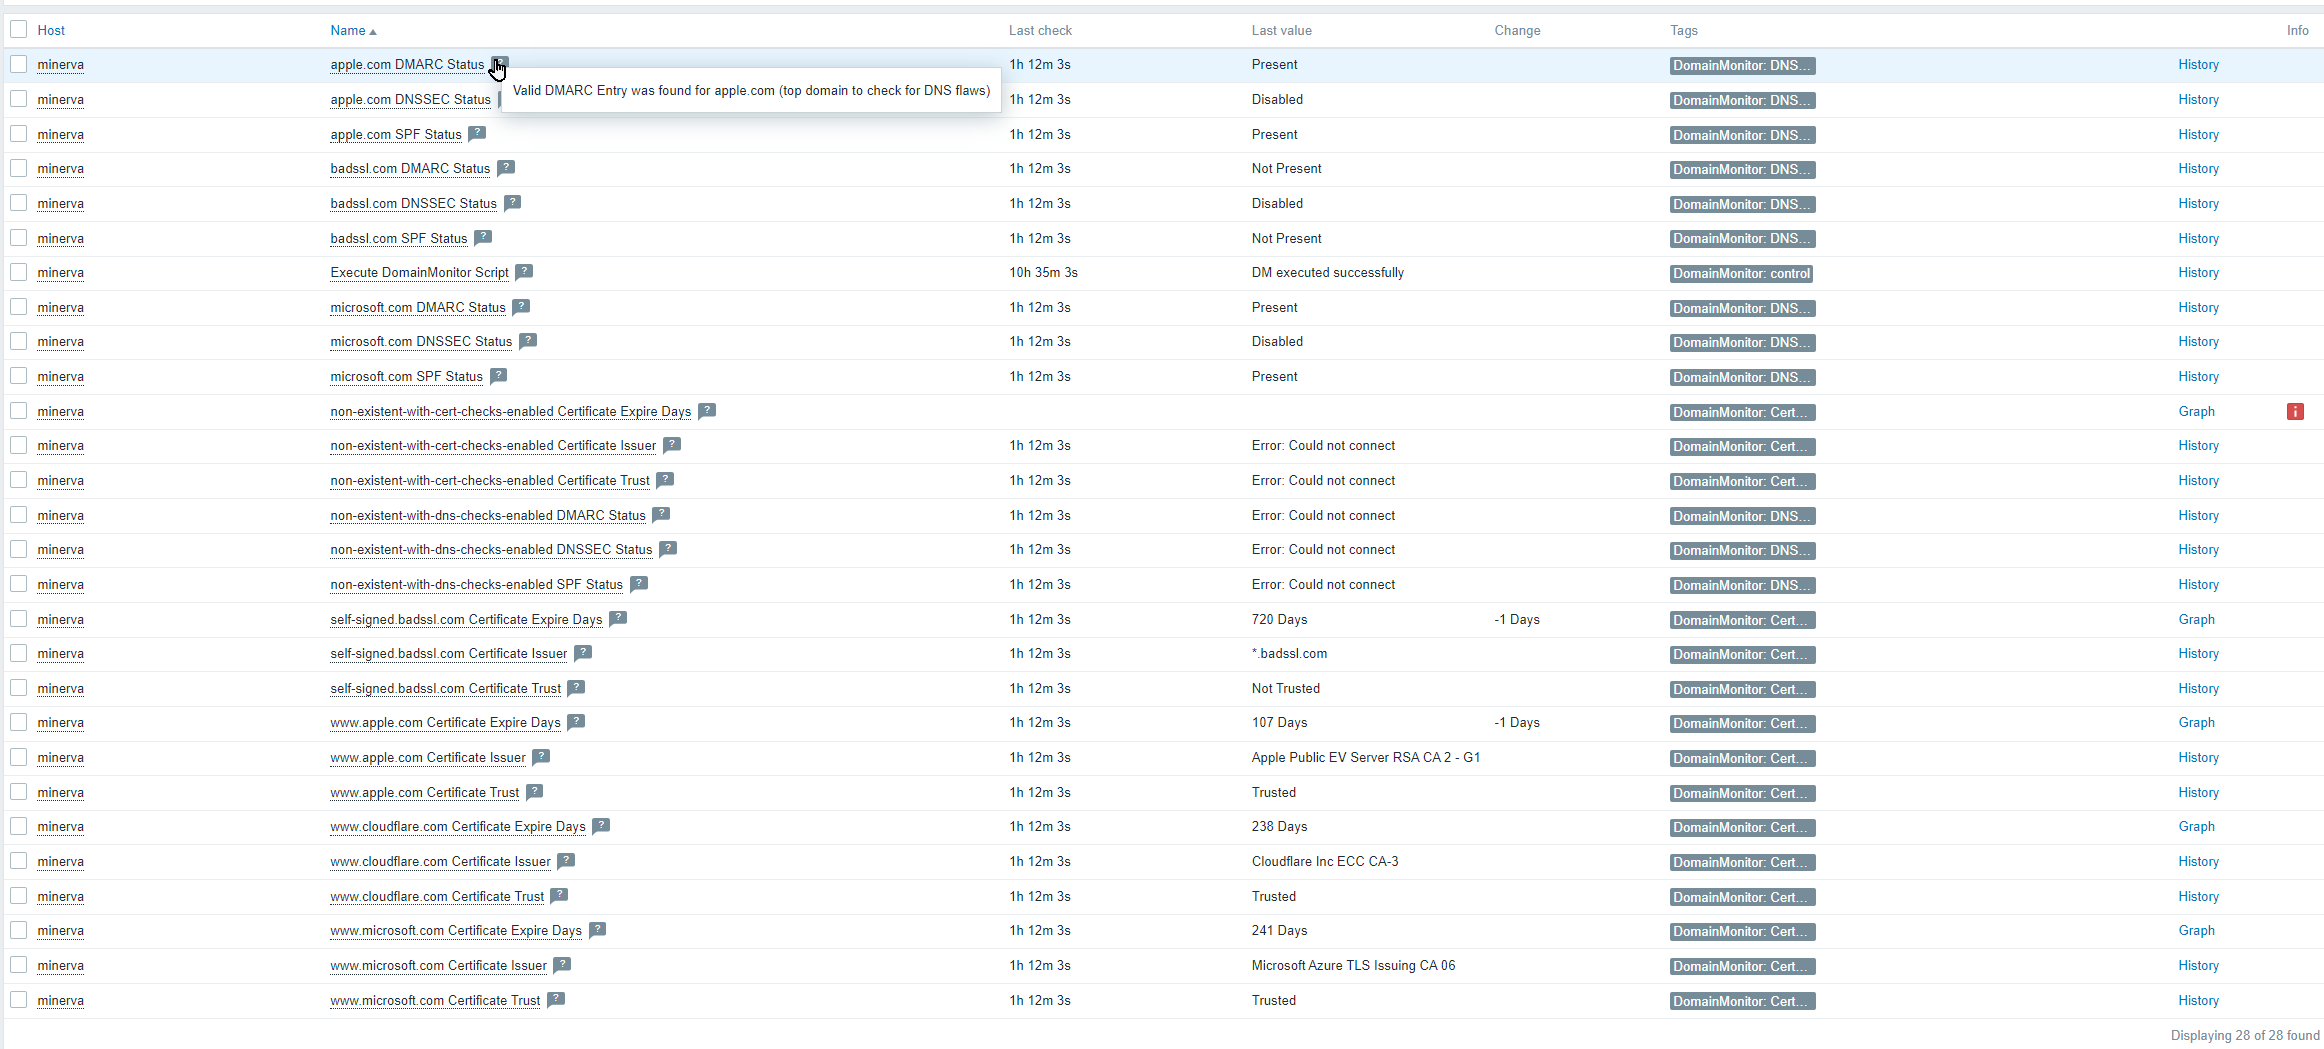
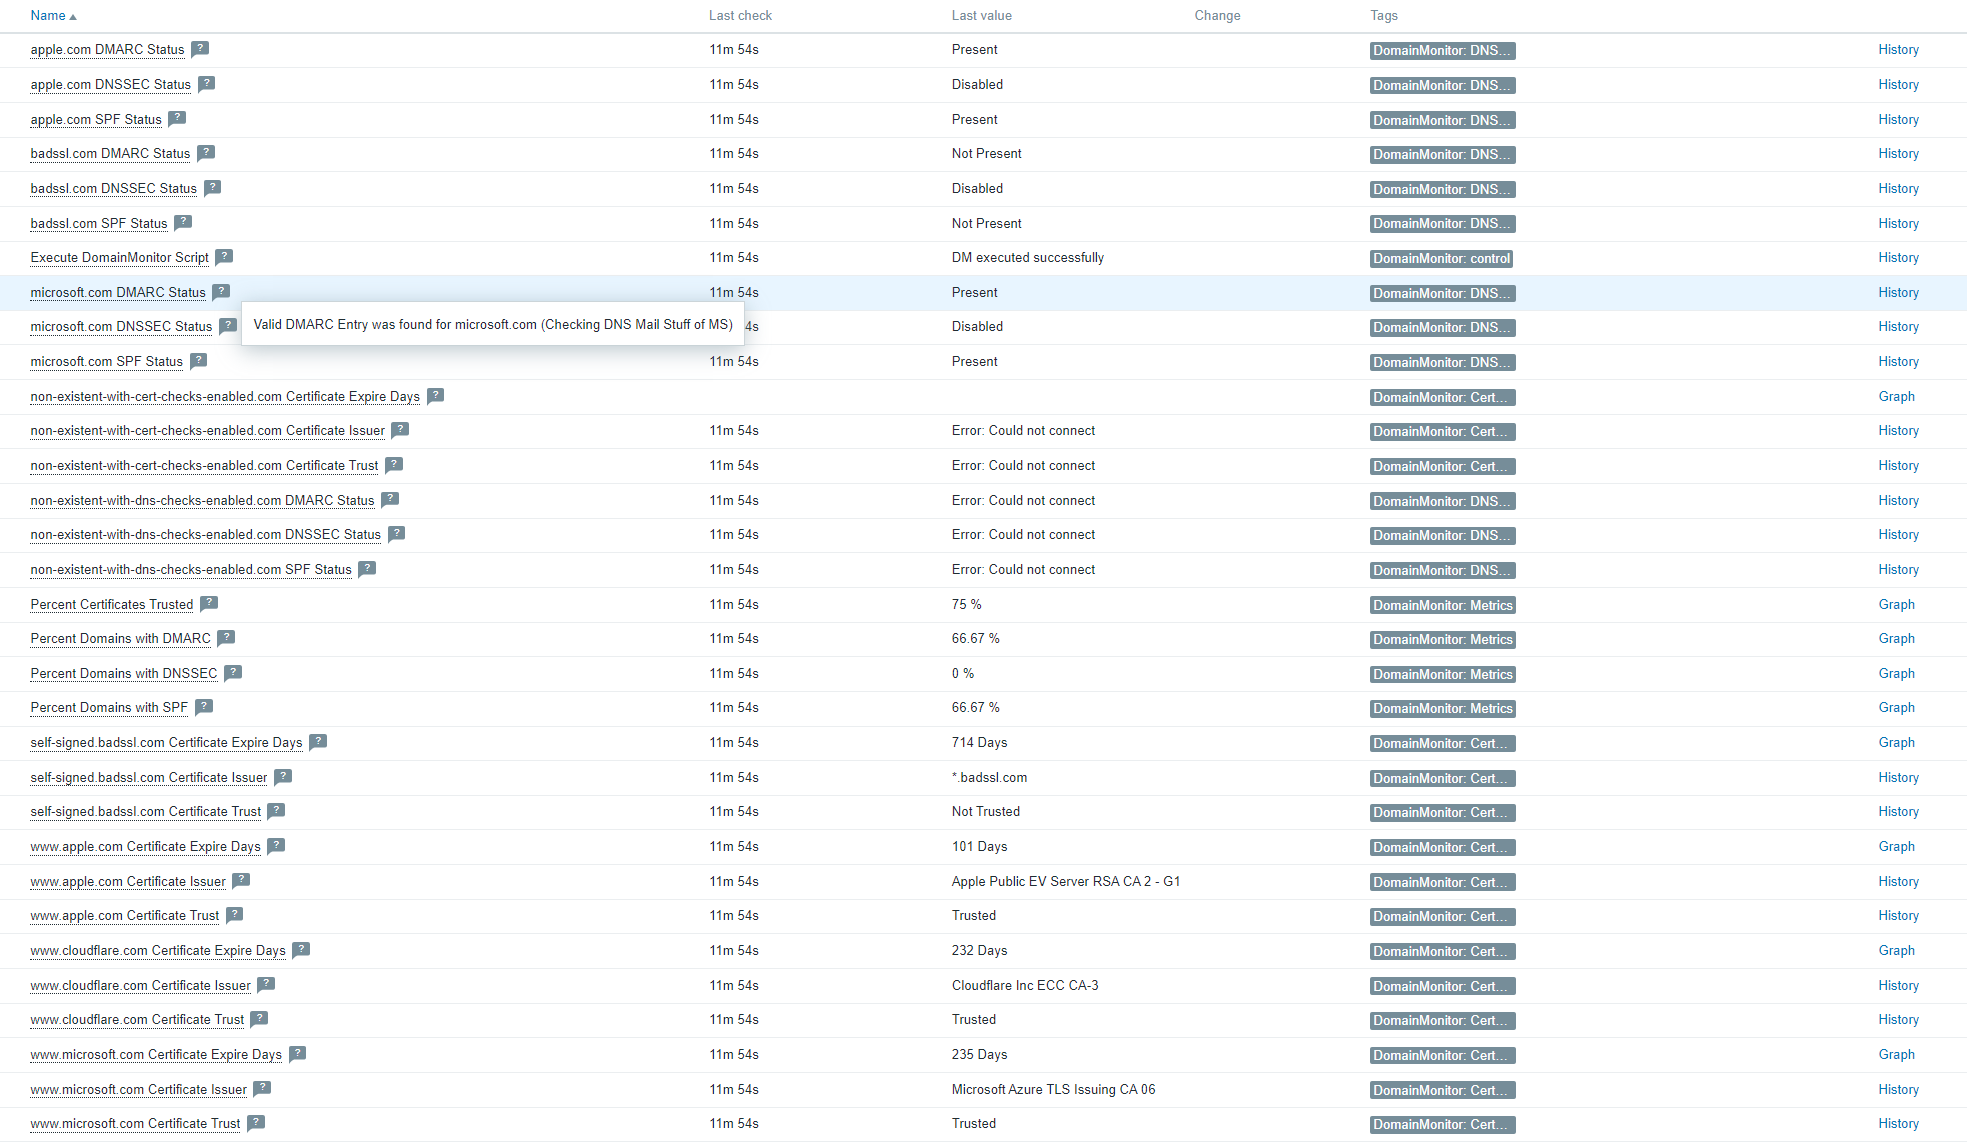
Metrics added

diff --git a/zabbix/template_discover.js b/zabbix/template_discover.js
@@ -1,4 +1,4 @@
-Zabbix.log(4, 'Starting DM discovery for cert checks...');
+Zabbix.log(4, 'Starting Domain Monitor discovery...');
 
 // init return
 var result = {};
@@ -21,7 +21,7 @@ try {
 
 } catch (error) {
     Zabbix.log(4, 'DM error fetching domains: ' + error);
-    result = { "error": error };
+    result = { "Error downloading file": String(error) };
 }
 
 try {
@@ -55,7 +55,8 @@ try {
 
 } catch (error) {
     Zabbix.log(4, 'DM error parsing domains: ' + error);
-    result = { "error": error };
+    Zabbix.log(4, 'File contents downloaded: ' + file_contents);
+    result = { "Error parsing file" : String(error) };
 }
 
 

diff --git a/dm.py b/dm.py
@@ -21,6 +21,53 @@ import sslpsk
 import functools
 import dns.resolver
 
+class DmMetrics:
+    """Collects metrics for domains and provides calc functions
+
+    Returns:
+        _type_: _description_
+    """
+    
+    ## Prepare Metrics
+    # Overall counts
+    domains_cert_checks_enabled = 0
+    domains_dns_checks_enabled = 0
+    
+    # Succeeded check counts
+    domains_cert_trusted = 0
+    domains_dns_spf_present = 0
+    domains_dns_dmarc_present = 0
+    domains_dns_dnssec_enabled = 0
+    
+    def get_metrics(self):
+        """
+        returns dict with metrics
+        """
+        metrics = {}
+        
+        ## CERT
+        # not counted anything /error
+        if self.domains_cert_checks_enabled == 0:
+            metrics['percent_cert_trusted'] = 0
+        else:
+            # calc %
+            metrics['percent_cert_trusted'] = round( (self.domains_cert_trusted / self.domains_cert_checks_enabled * 100),2)
+        
+        ## DNS
+        if self.domains_dns_checks_enabled == 0:
+            metrics['percent_spf_present'] = 0
+            metrics['percent_dmarc_present'] = 0
+            metrics['percent_dnssec_enabled'] = 0
+        else:
+            # calc %
+            metrics['percent_spf_present'] = round( (self.domains_dns_spf_present / self.domains_dns_checks_enabled * 100),2)
+            metrics['percent_dmarc_present'] = round( (self.domains_dns_dmarc_present / self.domains_dns_checks_enabled * 100),2)
+            metrics['percent_dnssec_enabled'] = round( (self.domains_dns_dnssec_enabled / self.domains_dns_checks_enabled * 100),2)
+        
+        return metrics    
+         
+        
+
 
 class PyZabbixPSKSocketWrapper:
     """Implements ssl.wrap_socket with PSK instead of certificates.
@@ -170,11 +217,12 @@ def check_cert_expire_days(domain_name):
     return check_result
 
 
-def check_cert_trusted(domain_name):
+def check_cert_trusted(domain_name, metrics: DmMetrics):
     """Connects to hostname per https. If cert cannot be verified, return false.
 
     Args:
         domain_name (str): domain name to connect and to check
+        metrics (dmMetrics): Metrics Object to update
     """
     check_result = {}
     
@@ -188,26 +236,33 @@ def check_cert_trusted(domain_name):
         if r.ok:
             check_result['cert_trusted'] = True
             l.debug("Cert of %s is trusted", domain_name)
+            metrics.domains_cert_trusted += 1
         if r.status_code == 403:
+            metrics.domains_cert_trusted += 1
             check_result['cert_trusted'] = True
             l.warning("Cert of %s is trusted, but connect was forbidden!", domain_name)
 
     except SSLError as e_ssl:
-        l.warning("Cert of %s is NOT trusted", domain_name)
+        l.warning("Cert of %s is NOT trusted: %s", domain_name, str(e_ssl))
         check_result['cert_trusted'] = False
     except requests.exceptions.ConnectionError as e_connect:
         l.warning("Error: Could not connect to %s: %s",
                   domain_name, str(e_connect))
-        check_result['cert_trusted'] = "Error: Could not connect"    
+        check_result['cert_trusted'] = "Error: Could not connect"
+    except Exception as e_other:
+        l.warning("Error: Could not connect to %s: %s",
+                  domain_name, str(e_other))
+        check_result['cert_trusted'] = "Error: Could not connect"
 
     return check_result
 
 
-def check_spf_present(domain_name):
+def check_spf_present(domain_name, metrics: DmMetrics):
     """Checks if Domain name has valid SPF record
 
     Args:
         domain_name (str): Domain to check for SPF
+        metrics (dmMetrics): Metrics Object to update
     """
     
     check_result = {}
@@ -216,19 +271,21 @@ def check_spf_present(domain_name):
         spf_check_result = checkdmarc.query_spf_record(domain_name)
         l.info("Found SPF record for %s", domain_name)
         check_result['spf_present'] = True
+        metrics.domains_dns_spf_present += 1
     
     except checkdmarc.SPFRecordNotFound as e_spf:
-        l.debug("No SPF record found for %s", domain_name)
+        l.debug("No SPF record found for %s: %s", domain_name, str(e_spf))
         check_result['spf_present'] = False
 
     return check_result
 
 
-def check_dmarc_present(domain_name):
+def check_dmarc_present(domain_name, metrics: DmMetrics):
     """Checks if Domain name has valid DMARC record
 
     Args:
         domain_name (str): Domain to check for DMARC
+        metrics (dmMetrics): Metrics Object to update
     """
     check_result = {}
     if not domain_exists(domain_name):
@@ -238,10 +295,11 @@ def check_dmarc_present(domain_name):
     
     try:
         dmarc_check_result = checkdmarc.query_dmarc_record(domain_name)
-        l.info("Found DMARC record for %s", domain_name)
+        l.info("Found DMARC record for %s: %s", domain_name, str(dmarc_check_result))
         check_result['dmarc_present'] = True
+        metrics.domains_dns_dmarc_present += 1
     except checkdmarc.DMARCRecordNotFound as e_dmarc:
-        l.debug("No DMARC record found for %s", domain_name)
+        l.debug("No DMARC record found for %s: %s", domain_name, str(e_dmarc))
         check_result['dmarc_present'] = False
     except (checkdmarc.DMARCRecordInWrongLocation, checkdmarc.MultipleDMARCRecords, checkdmarc.SPFRecordFoundWhereDMARCRecordShouldBe):
         l.debug("No VALID DMARC record found for %s", domain_name)
@@ -250,11 +308,12 @@ def check_dmarc_present(domain_name):
     return check_result
 
 
-def check_dnssec(domain_name):
+def check_dnssec_enabled(domain_name, metrics: DmMetrics):
     """Checks if Domain name has DNSSEC enabled
 
     Args:
         domain_name (str): Domain to check for DNSSEC
+        metrics (dmMetrics): Metrics Object to update
     """
     check_result = {}
     dnssec_enabled = checkdmarc.test_dnssec(domain_name)
@@ -279,6 +338,7 @@ def send_zabbix(dm_args, domains_with_check_results):
 
     # prepare packet to send
     zabbix_packet = []
+    
     # for all domains
     for entry in domains_with_check_results['domains']:
         # for all check results
@@ -286,11 +346,20 @@ def send_zabbix(dm_args, domains_with_check_results):
         for cr in entry['check_results'].keys():
             keyname = f"dm.{cr}[{domain_name}]"
             val = entry['check_results'][cr]
-            chunk = ZabbixMetric(host=dm_args.zabbix_host,
-                                 key=keyname, value=val)
+            chunk = ZabbixMetric(host=dm_args.zabbix_host, key=keyname, value=val)
             zabbix_packet.append(chunk)
             l.debug("item %s=%s", keyname, val)
 
+    # for all metrics
+    for entry in domains_with_check_results['metrics']:
+        val = domains_with_check_results['metrics'][entry]
+        keyname = f"dm.{entry}"
+        
+        chunk = ZabbixMetric(host=dm_args.zabbix_host, key=keyname, value=val)
+        zabbix_packet.append(chunk)
+        l.debug("item %s=%s", keyname, val)
+    
+    
     # send via trapper, check if psk provided
     if dm_args.psk:
         l.debug("Sending Trapper Items encrpyted using PSK and TLS Identity...")
@@ -375,9 +444,15 @@ def main():
     l.info("-------- Starting Domain Monitor --------")
     l.debug("Parsed arguments: %s", dm_args)
 
+    
+
+
     # read and parse domain file
     domains_with_check_results = get_domain_file(dm_args)
-
+    
+    # Prepare Metrics
+    metrics = DmMetrics()
+    
     ### Main loop executing checks for each domain
     for entry in domains_with_check_results['domains']:
         # prepare results branch
@@ -386,7 +461,7 @@ def main():
         domain_name = entry['domain']
         l.debug("----- Checks for %s starting...", domain_name)
         
-        # Only continue if domain exists / can be queried
+        # Pre-Check: Only continue if domain exists / can be queried
         if not domain_exists(domain_name):
             l.error("Domain %s does not exist. Not executing checks.", domain_name)
             error_str = "Error: Could not connect"
@@ -402,10 +477,12 @@ def main():
             # end loop for this domain
             continue
         
-
         # Execute Cert checks if enabled
         if 'cert_checks' in entry and entry['cert_checks']:
             l.debug("Cert Checks for %s enabled, executing cert checks...", domain_name)
+            
+            # Count domain to checked cert domains
+            metrics.domains_cert_checks_enabled += 1
 
             # check domains for ssl cert validity
             l.debug("Checking validity for domain %s", domain_name)
@@ -413,28 +490,34 @@ def main():
 
             # check domains for cert trust
             l.debug("Checking trust for domain %s", domain_name)
-            entry['check_results'].update(check_cert_trusted(domain_name))
+            entry['check_results'].update(check_cert_trusted(domain_name, metrics))
         else:
             l.debug("Cert Checks for %s not enabled", domain_name)
 
         if 'dns_checks' in entry and entry['dns_checks']:
             l.debug(
                 "DNS Checks for %s enabled, executing DNS checks...", domain_name)
+            
+            # Count domain to checked DNS domains
+            metrics.domains_dns_checks_enabled += 1
 
             # check for SPF presence
             l.debug("Checking SPF for domain %s", domain_name)
-            entry['check_results'].update(check_spf_present(domain_name))
+            entry['check_results'].update(check_spf_present(domain_name, metrics))
 
             # check for DMARC presence
             l.debug("Checking DMARC for domain %s", domain_name)
-            entry['check_results'].update(check_dmarc_present(domain_name))
+            entry['check_results'].update(check_dmarc_present(domain_name, metrics))
 
             # check for DNSSEC
             l.debug("Checking DNSSEC for domain %s", domain_name)
-            entry['check_results'].update(check_dnssec(domain_name))
+            entry['check_results'].update(check_dnssec_enabled(domain_name, metrics))
         else:
             l.debug("DNS Checks for %s not enabled", domain_name)
 
+    # Add calculated metrics to final dict
+    domains_with_check_results['metrics'] = metrics.get_metrics()
+    
     # If parameters are present, send results to Zabbix trapper items
     if dm_args.zabbix_server:
         if not dm_args.zabbix_host:
@@ -447,7 +530,10 @@ def main():
     else:
         l.debug("Zabbix Server not set. Not sending to Zabbix.")
 
-    # print final result = domain file with enriched check results
+    
+    
+    
+    # output final result = domain file with enriched check results
     pp = PrettyPrinter(indent=4, width=80, depth=4, compact=False)
     pretty_result = pp.pformat(domains_with_check_results)
     l.info("\n%s", pretty_result)

diff --git a/README.md b/README.md
@@ -227,7 +227,17 @@ Additionally you can check the log file `log/dm.log`
 |DomainMonitor discovery|Downloads and parses domain file. Starting LLD|Script (JS)|`DM_DOMAIN_FILE`, `DM_GIT_TOKEN`|
 
 ### Items collected
-All items are collected per domain.
+*Items collected once*
+|Name|Description|
+|----|-----------|
+|Percent Certificates Trusted|% of checked Domains with trusted certificate|
+|Percent Domains with DMARC|% of checked Domains with valid DMARC DNS entry|
+|Percent Domains with DNSSEC|% of checked Domains where DNSSEC is enabled|
+|Percent Domains with SPF|% of checked Domains with valid SPF DNS entry|
+
+<br/>
+
+*Items collected per domain (LLD)*
 
 |Name|Description|
 |----|-----------|
@@ -237,6 +247,8 @@ All items are collected per domain.
 |DMARC Status|Status of valid DMARC entry|
 |DNSSEC Status|Status of DNSSEC of domain|
 |SPF Status|Status of SPF entry of domain|
+
+
 
 <br/>
 
@@ -248,6 +260,7 @@ Each trigger is created per domain.
 |Cert Not Trusted	|Cert not trusted by common browsers / self signed cert. detected|`Warning`|
 |No DMARC Record|DMARC entry was not detected for domain|`Warning`|
 |No SPF Record|No SPF record was detected for domain|`Warning`|
+|Cert Issuer Changed|Issuer of Cert differs from last check|`Average`|
 
 <br/>
 
@@ -256,7 +269,7 @@ Each trigger is created per domain.
 You may run the python script standalone from command line for testing or for just getting JSON output. Following parameters can be used
 |Parameter|Description|Example|Required|
 |---------|-----------------|----------------|--------|
-|-f|Domain file to download|`https://api.github.com/repos/gitbock/ZabbixDomainMonitor/contents/example_domains.json`|Yes|
+|-f|Domain file to download|GitHub Private Repo (Token needed, see "-a") <br/>`https://api.github.com/repos/gitbock/ZabbixDomainMonitor/contents/example_domains.json` <br/><br/>GitHub Public Repo<br/> `https://github.com/gitbock/ZabbixDomainMonitor/raw/master/example_domains.json`<br/> <br/>Regular HTTPS Server<br/> `https://your-server.com/domains.json` |Yes|
 |-a|Github Token to download from private repo. Will be added as Authorization header when trying to download file|`github_pat_xxxxxxxxxxxx`|No|
 |-s|Zabbix Server IP to send results to|`127.0.0.1`|No|
 |-d|Zabbix Hostname which template is linked|`myAgent`|No|
